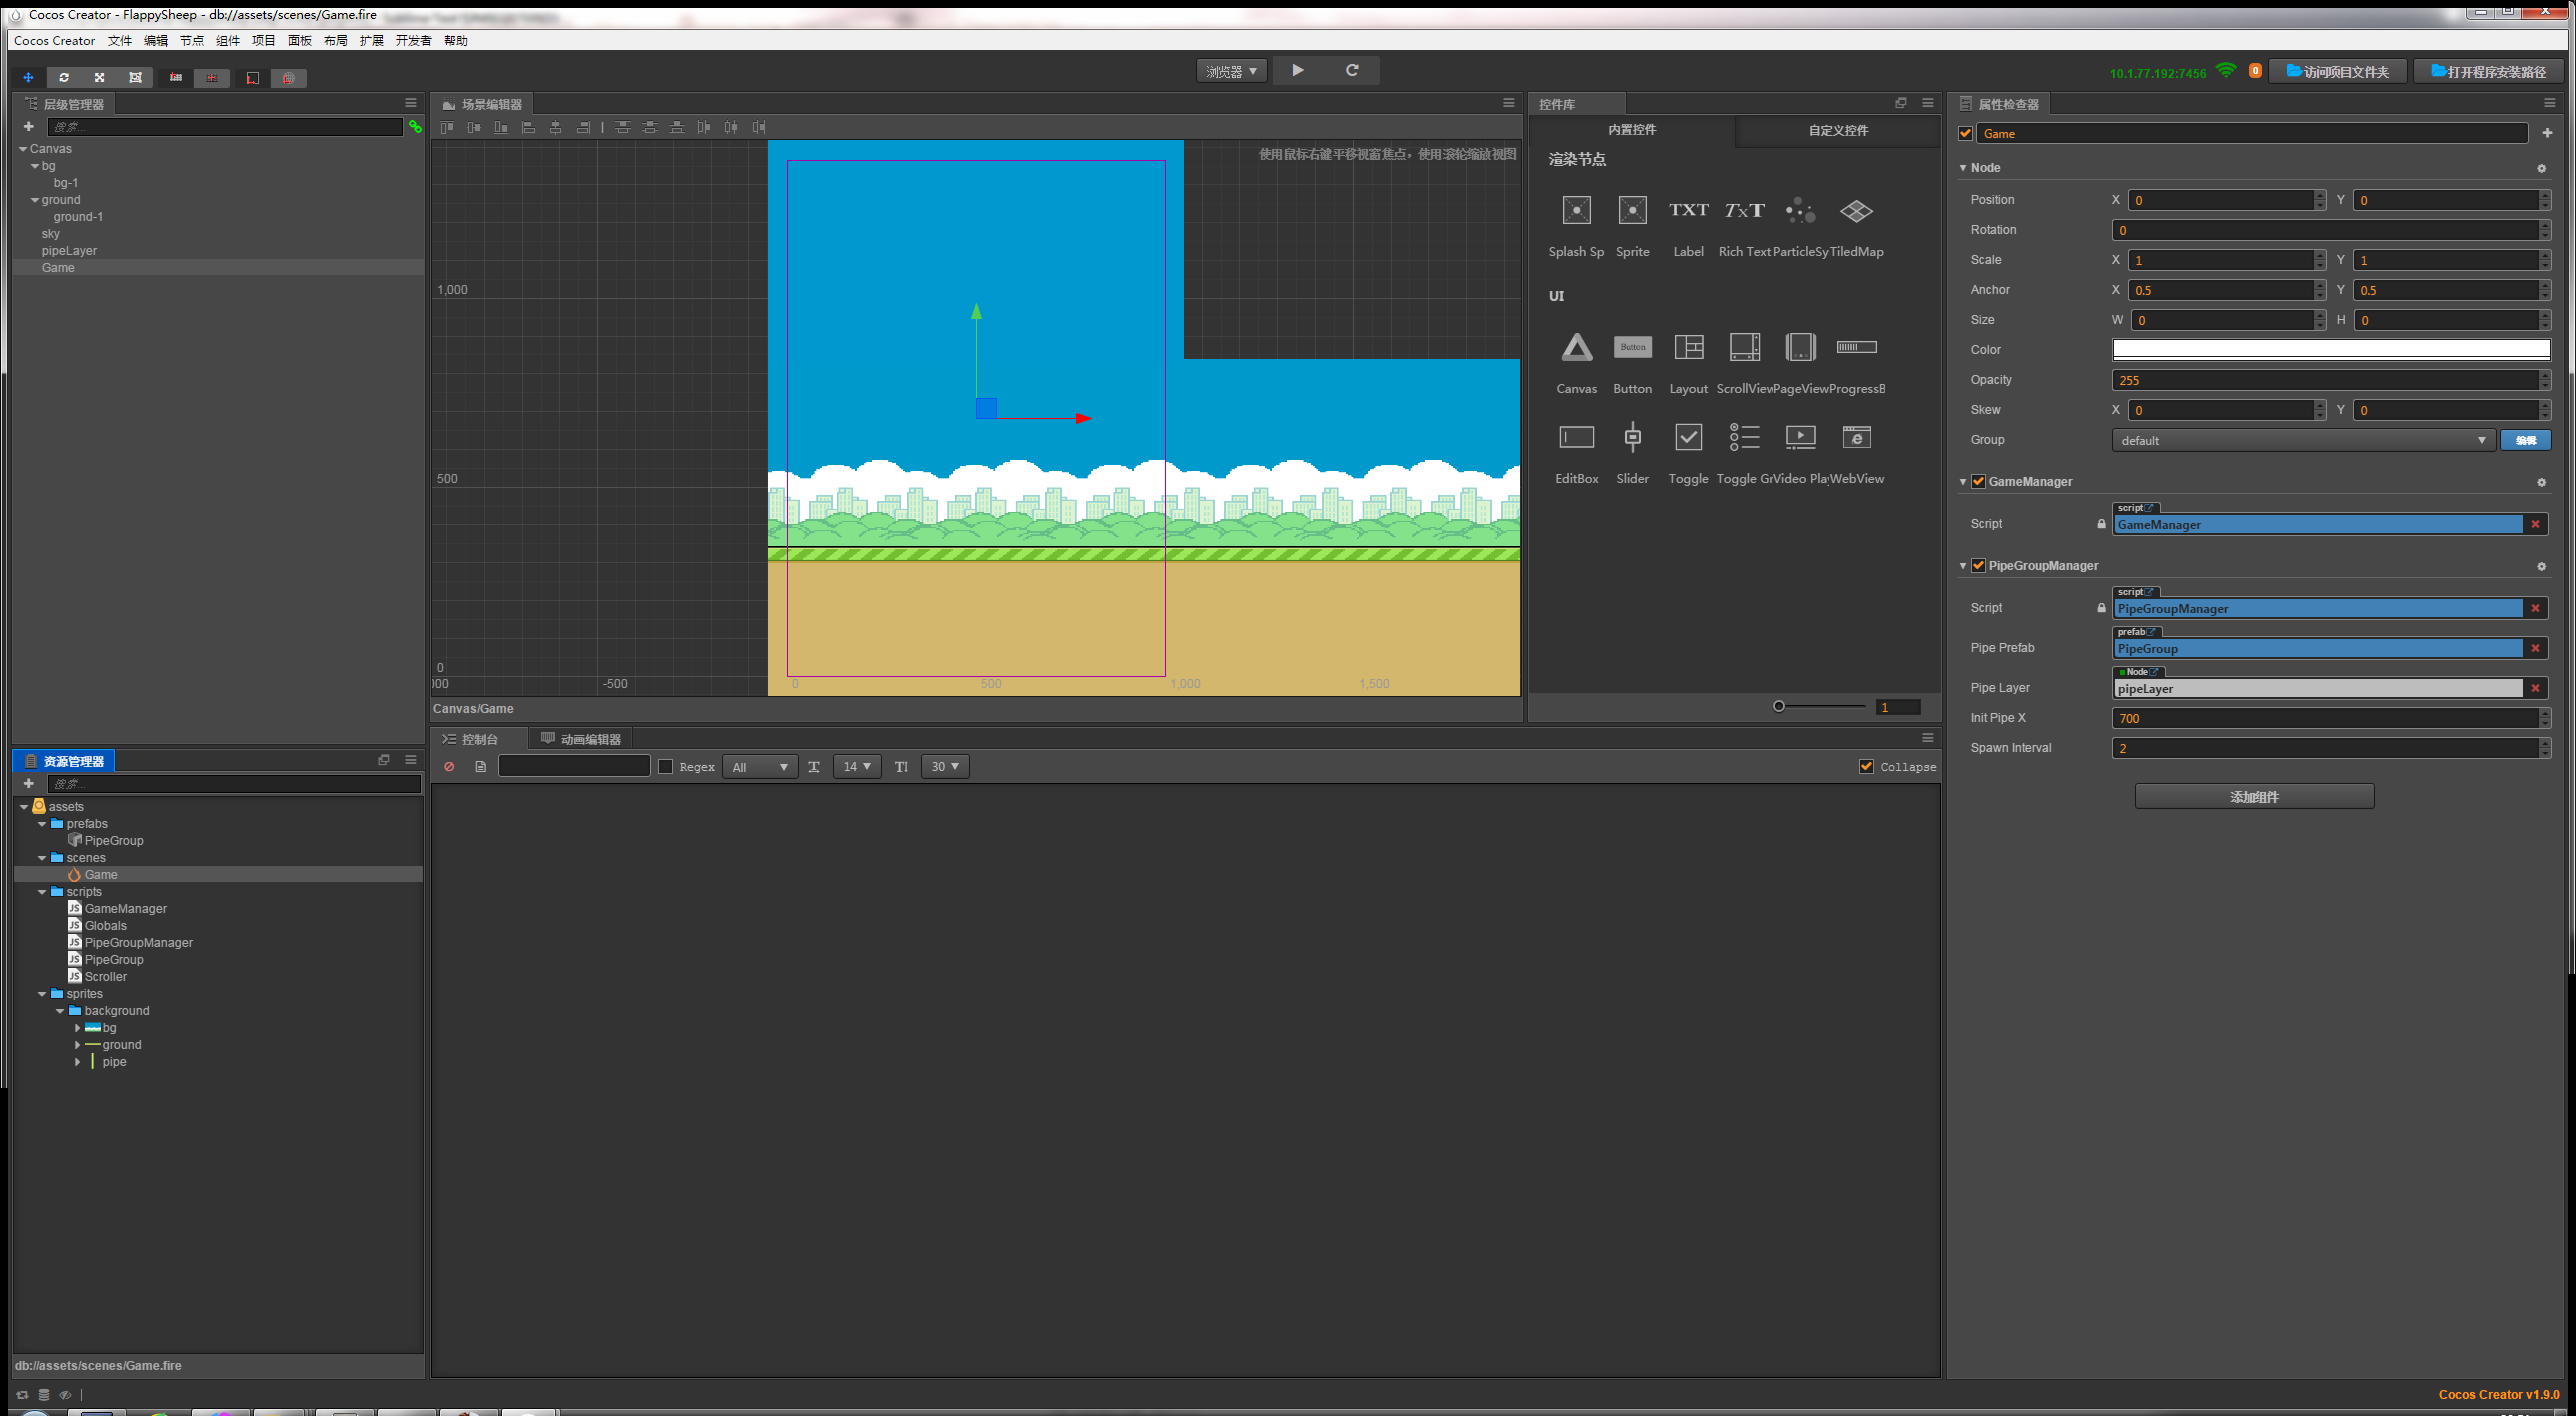
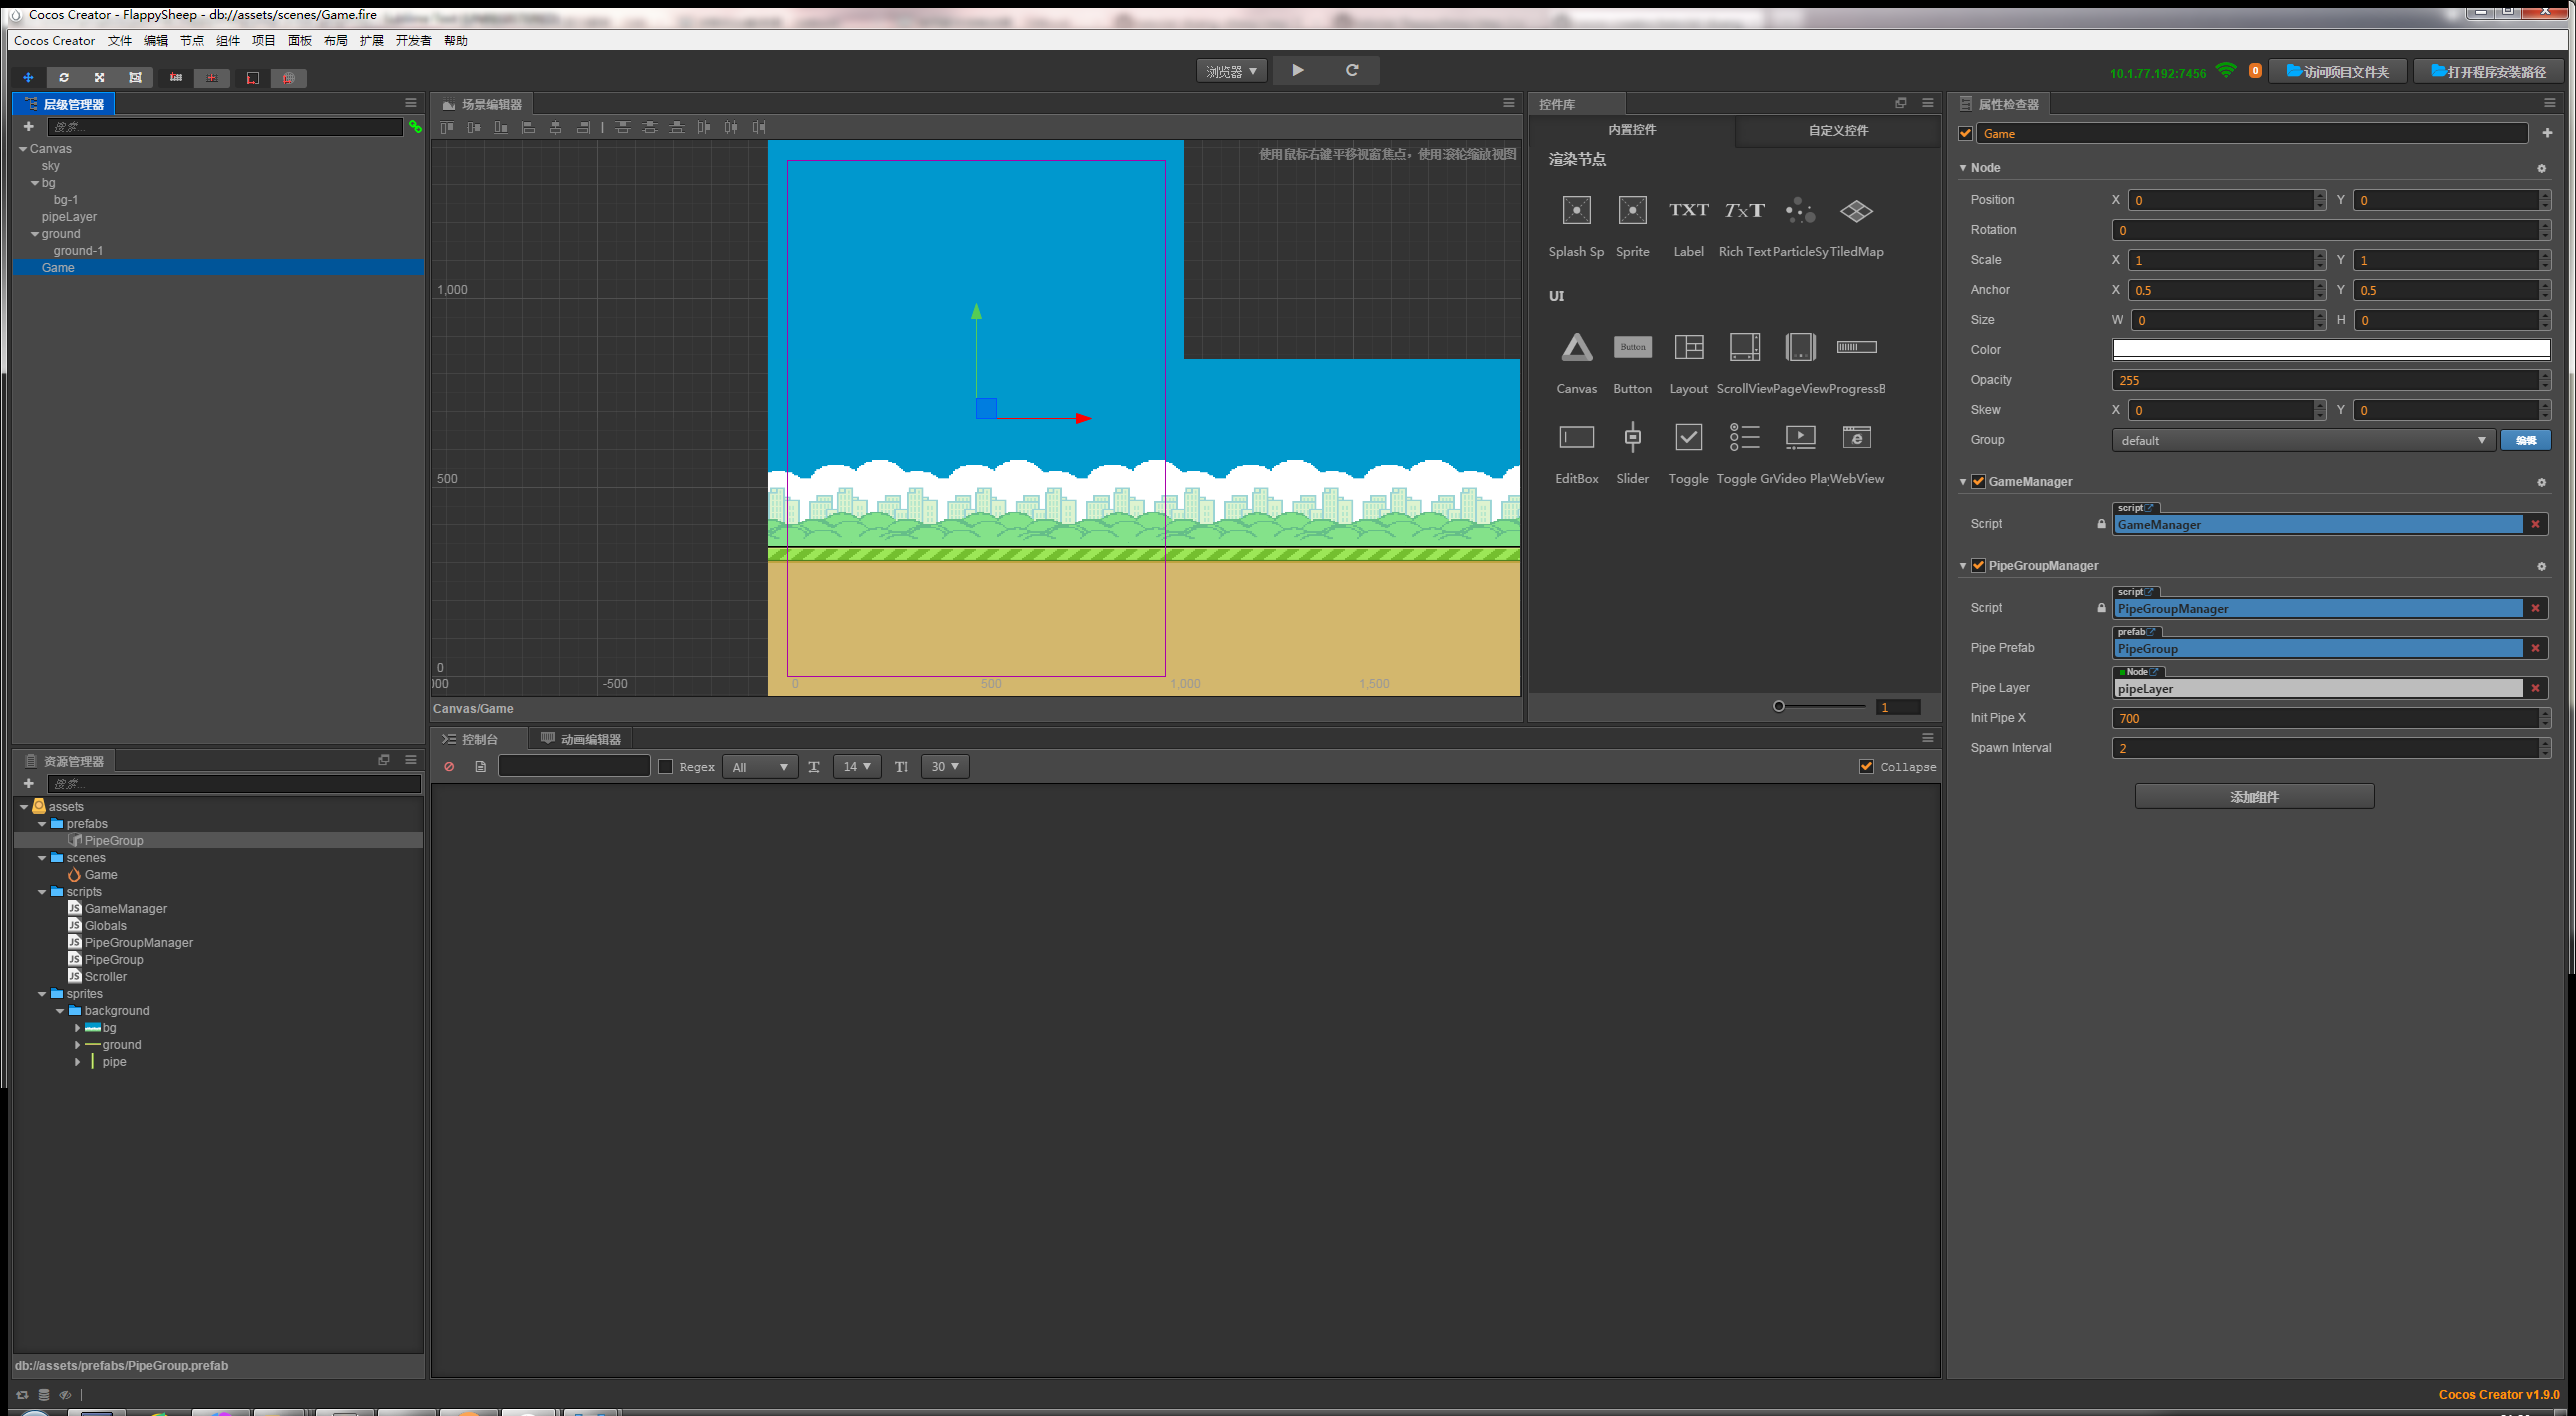
x

diff --git a/step-3.md b/step-3.md
@@ -106,7 +106,7 @@ var GameManager = cc.Class({
 - 双击打开assets->prefabs->PipeGroup，将资源管理器->assets->scripts->PipeGroup拖拽到属性检查器面板，然后将层级管理器->PipeGroup->pipeTop和pipeBottom分别拖拽到属性检查器面板上的Top Pipe和Bot Pipe节点，修改数值Speed=-300，BotYRange数值X=-270，Y=-50，SpacingRange数值X=200，Y=375，然后分别双击打开层级管理器->PipeGroup下的子节点pipeTop和pipeBottom，将资源管理器->assets->sprites->background->pipe拖拽到属性检查器面板上的SpriteFrame，同时先删除PipeGroup以及子节点pipeTop和pipeBottom的BoxCollider
 ![3-4](/3-4.png)
 - 双击打开资源管理器下的Game场景，选中层级管理器->Canvas下的Game，将资源管理器->assets->scripts->GameManager拖拽到属性检查器面板
-- 选中层级管理器->Canvas下的Game，将资源管理器->assets->scripts->PipeGroupManager拖拽到属性检查器面板，然后将资源管理器->assets->prefabs->PipeGroup拖拽到属性检查器面板上的Pipe Prefab，将层级管理器->Canvas下的pipeLayer拖拽到Pipe Layer，修改数值InitPipeX=700, SpawnInterval=2
+- 选中层级管理器->Canvas下的Game，将资源管理器->assets->scripts->PipeGroupManager拖拽到属性检查器面板，然后将资源管理器->assets->prefabs->PipeGroup拖拽到属性检查器面板上的Pipe Prefab，将层级管理器->Canvas下的pipeLayer拖拽到Pipe Layer，修改数值InitPipeX=700, SpawnInterval=2。注意这里调整一下层级管理器里阶段的顺序，从上到下一依次为sky、bg、pipeLayer、ground、Game，这样才能确保地表遮盖管道下沿
 ![3-5](/3-5.png)
 - 点击预览箭头，在浏览器中预览我们创角好的Game场景和管道障碍物
 ![3-6](/3-6.png)
